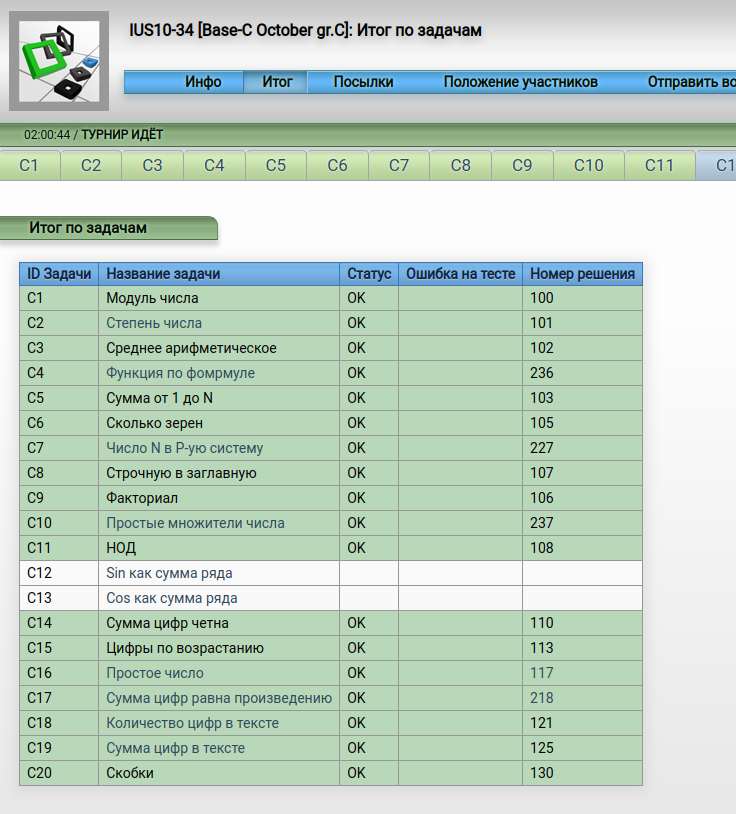
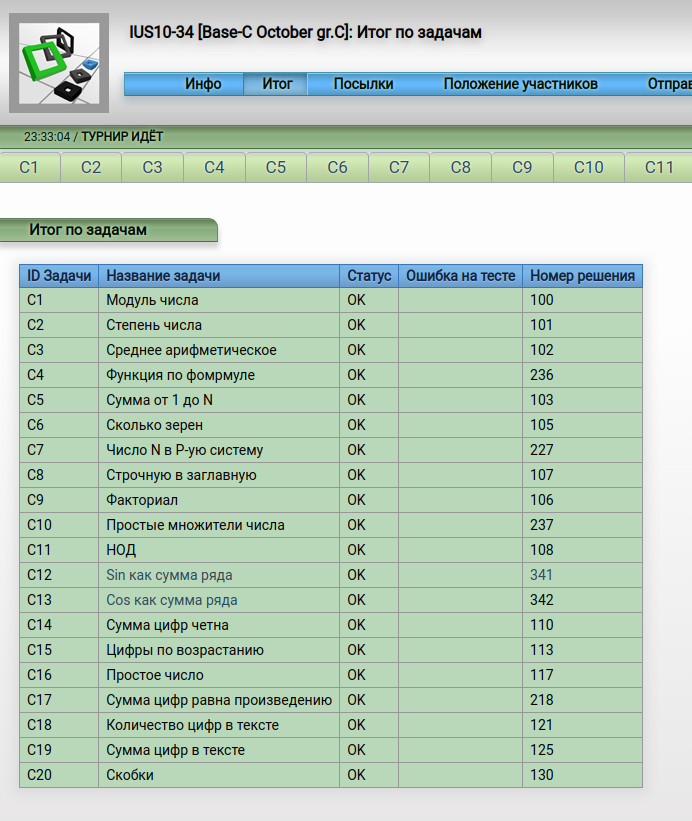
add tasks 12, 13

Changed region(s): [[0.0, 0.2457, 0.9408, 0.9828], [0.0, 0.0, 1.0, 0.2457]]

diff --git a/HW6/task13.c b/HW6/task13.c
@@ -1,0 +1,47 @@
+// Составить функцию, которая вычисляет синус как сумму ряда (с точностью 0.001)
+// cos(x) = 1 - x2/2! + x4/4! - x6/6! + ... (x в радианах)
+// float cosinus(float x)
+
+#include <stdio.h>
+#include <math.h>
+
+#define PI 3.141592653
+#define ACCURACY 0.001
+
+int factorial(int num)
+{
+  int res=1;
+  for(int i =1; i <= num; i++)
+    res *= i;
+  return res;
+}
+
+float row_cos(float x, int p)
+{
+  return (pow(-1, p) * pow(x, 2* p) / factorial(2*p));
+}
+
+float deg_rad(float x)
+{
+  return (x * PI / 180.0);
+}
+
+float cosinus(float x)
+{
+  float res = 0, term;
+  int i = 0;
+  do{
+    term = row_cos(x, i);
+    res += term;
+    i++;
+  }while(fabs(term) > ACCURACY);
+  return res;
+}
+
+int main (void)
+{
+  float x;
+  scanf("%f", &x);
+  printf("%.3f", cosinus(deg_rad(x)));
+  return 0;
+}

diff --git a/HW6/task12.c b/HW6/task12.c
@@ -1,0 +1,47 @@
+// Составить функцию, которая вычисляет синус как сумму ряда (с точностью 0.001)
+// sin(x) = x - x3/3! + x5/5! - x7/7! + ...(x в радианах)
+// float sinus(float x)
+
+#include <stdio.h>
+#include <math.h>
+
+#define PI 3.141592653
+#define ACCURACY 0.001
+
+int factorial(int num)
+{
+  int res=1;
+  for(int i =1; i <= num; i++)
+    res *= i;
+  return res;
+}
+
+float row_cos(float x, int p)
+{
+  return (pow(-1, p) * pow(x, 1+2* p) / factorial(1+2*p));
+}
+
+float deg_rad(float x)
+{
+  return (x * PI / 180.0);
+}
+
+float sinus(float x)
+{
+  float res = 0, term;
+  int i = 0;
+  do{
+    term = row_cos(x, i);
+    res += term;
+    i++;
+  }while(fabs(term) > ACCURACY);
+  return res;
+}
+
+int main (void)
+{
+  float x;
+  scanf("%f", &x);
+  printf("%.3f", sinus(deg_rad(x)));
+  return 0;
+}
